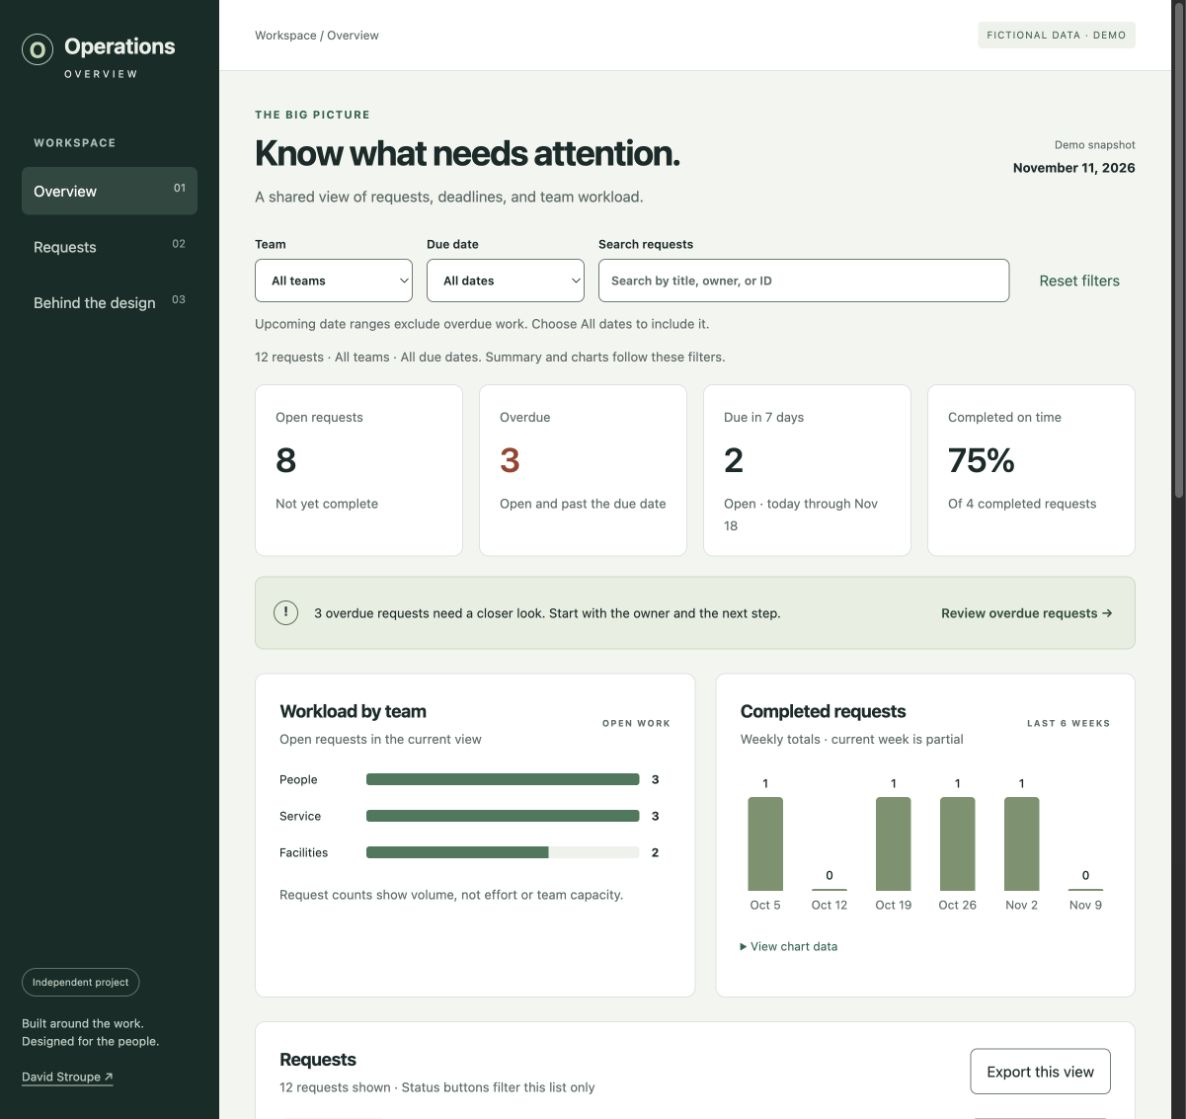
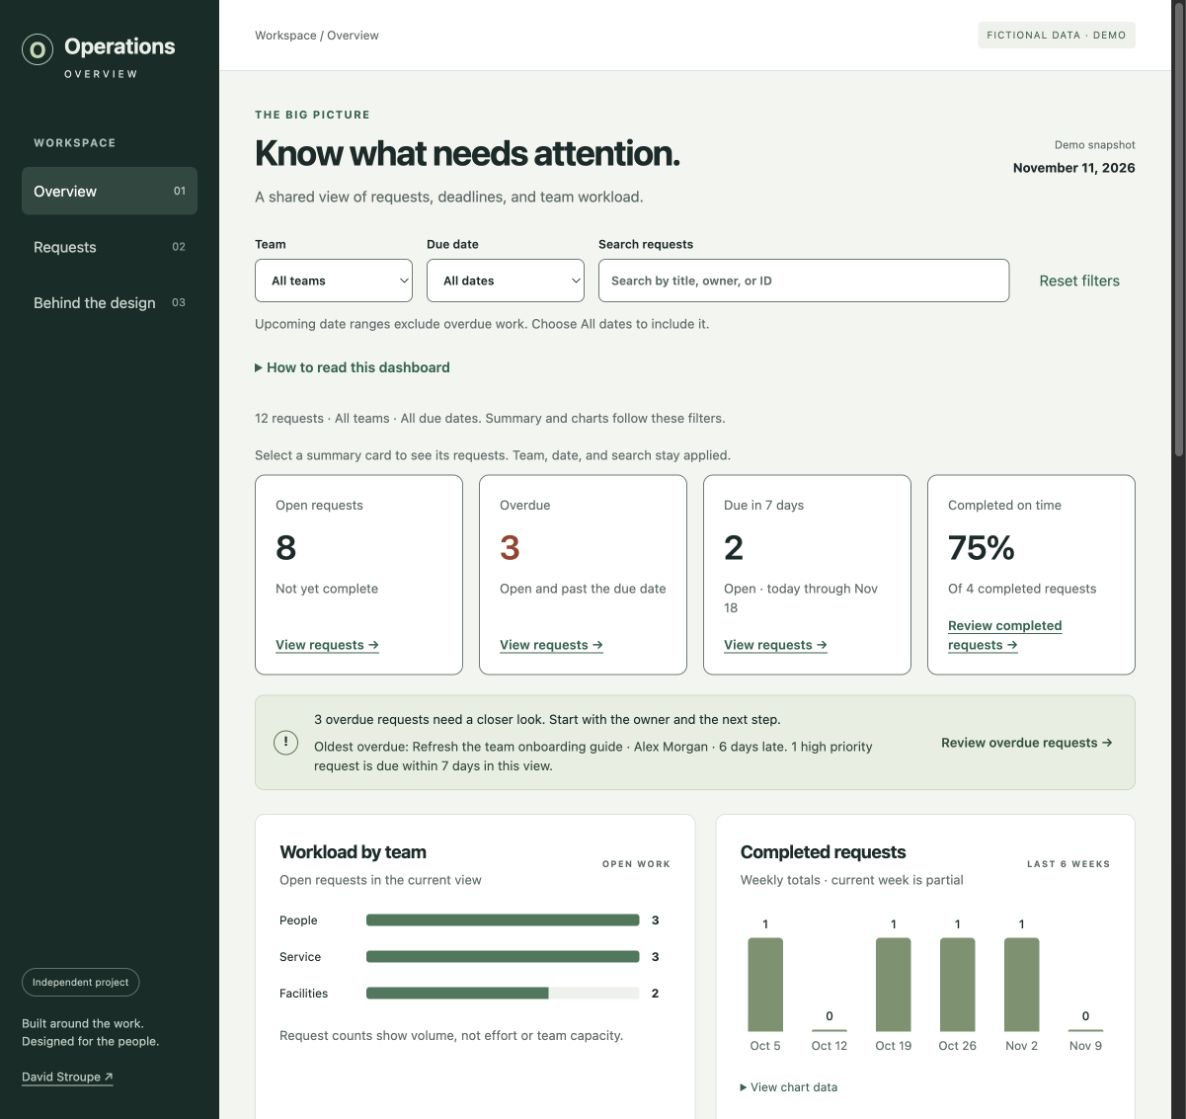
Connect summary cards to actionable request views

diff --git a/index.html b/index.html
@@ -3,10 +3,10 @@
 <aside class="sidebar"><a class="brand" href="index.html"><span class="mark">O</span> Operations<br><span class="brand-sub">OVERVIEW</span></a><p class="navlabel">WORKSPACE</p><nav aria-label="Dashboard"><a class="selected" href="#main" aria-current="page">Overview <span>01</span></a><a href="#requests">Requests <span>02</span></a><a href="case-study.html">Behind the design <span>03</span></a></nav><div class="sidefoot"><span class="pill">Independent project</span><p>Built around the work.<br>Designed for the people.</p><a href="https://www.linkedin.com/in/david-stroupe/">David Stroupe ↗</a></div></aside>
 <div class="workspace"><header><span>Workspace / Overview</span><span class="demo">FICTIONAL DATA · DEMO</span></header><main id="main" tabindex="-1"><div class="heading"><div><p class="eyebrow">THE BIG PICTURE</p><h1>Know what needs attention.</h1><p class="muted">A shared view of requests, deadlines, and team workload.</p></div><div class="snapshot">Demo snapshot<br><strong>November 11, 2026</strong></div></div>
 <form id="filters" class="filters" aria-label="Filter dashboard"><label>Team<select id="team" aria-describedby="scope"><option value="all">All teams</option><option>People</option><option>Service</option><option>Facilities</option></select></label><label>Due date<select id="window" aria-describedby="date-help"><option value="all">All dates</option><option value="30">Next 30 days</option><option value="60">Next 60 days</option><option value="90">Next 90 days</option></select></label><label class="search">Search requests<input id="search" aria-describedby="search-help" type="search" placeholder="Search by title, owner, or ID"></label><button type="reset" class="quiet">Reset filters</button></form>
-<p class="filter-help" id="date-help">Upcoming date ranges exclude overdue work. Choose All dates to include it.</p><p id="search-help" class="sr-only">Search by request title, owner, or ID. Results update as you type.</p><details class="dashboard-help"><summary>How to read this dashboard</summary><div><p>Team, due date, and search change the summary, charts, and request list. Status buttons change only the list.</p><p>Overdue means an unfinished request was due before November 11, 2026. Upcoming date ranges leave overdue work out. Completed on time compares completion dates with due dates, using only completed requests in this view.</p><p>Use Tab to move through controls, Enter or Space to activate buttons, and arrow keys in selection lists. Open a request for its context and next step. Escape closes request details and returns you to the list.</p></div></details><p id="scope" class="scope" aria-live="polite" aria-atomic="true"></p><section id="metrics" class="metrics" aria-label="Request summary"></section>
-<div class="insight"><span class="insight-icon" aria-hidden="true">!</span><p id="insight-text"></p><button id="show-overdue">Review overdue requests →</button></div>
+<p class="filter-help" id="date-help">Upcoming date ranges exclude overdue work. Choose All dates to include it.</p><p id="search-help" class="sr-only">Search by request title, owner, or ID. Results update as you type.</p><details class="dashboard-help"><summary>How to read this dashboard</summary><div><p>Team, due date, and search change the summary, charts, and request list. Status buttons change only the list.</p><p>Overdue means an unfinished request was due before November 11, 2026. Upcoming date ranges leave overdue work out. Completed on time compares completion dates with due dates, using only completed requests in this view.</p><p>Use Tab to move through controls, Enter or Space to activate buttons, and arrow keys in selection lists. Open a request for its context and next step. Escape closes request details and returns you to the list.</p></div></details><p id="scope" class="scope" aria-live="polite" aria-atomic="true"></p><p class="filter-help">Select a summary card to see its requests. Team, date, and search stay applied.</p><section id="metrics" class="metrics" aria-label="Request summary"></section>
+<div class="insight"><span class="insight-icon" aria-hidden="true">!</span><div class="briefing"><p id="insight-text"></p><p id="briefing-detail"></p></div><button id="show-overdue">Review overdue requests →</button></div>
 <div class="charts"><section class="panel"><div class="panel-heading"><div><h2>Workload by team</h2><p class="muted small">Open requests in the current view</p></div><span class="label">OPEN WORK</span></div><div id="workload"></div><p class="chartnote">Request counts show volume, not effort or team capacity.</p></section><section class="panel"><div class="panel-heading"><div><h2>Completed requests</h2><p class="muted small">Weekly totals · current week is partial</p></div><span class="label">LAST 6 WEEKS</span></div><div id="trend" class="trend"></div><details><summary>View chart data</summary><table id="trend-table"><caption>Completed requests by week</caption><thead><tr><th scope="col">Week starting</th><th scope="col">Completed</th></tr></thead><tbody></tbody></table></details></section></div>
-<section class="panel request-panel" id="requests"><div class="panel-heading"><div><h2>Requests</h2><p id="result-count" class="muted small" aria-live="polite" aria-atomic="true"></p></div><span class="help-wrap"><button id="export" class="outline" aria-describedby="export-help">Export this view</button><span class="tooltip" id="export-help" role="tooltip" hidden>Download the requests currently shown as a CSV, including work status and schedule. Nothing is sent to anyone.</span></span></div><div class="request-controls"><div class="tabs" role="group" aria-label="Request status"><button type="button" data-status="all" aria-pressed="true">All requests</button><button type="button" data-status="overdue" aria-pressed="false">Overdue</button><button type="button" data-status="open" aria-pressed="false">Open</button><button type="button" data-status="complete" aria-pressed="false">Complete</button></div><label>Sort by<select id="sort" aria-describedby="sort-help"><option value="attention">Needs attention</option><option value="due">Due date</option><option value="priority">Priority</option></select></label></div><p class="table-note" id="sort-help">Needs attention puts overdue work first, then other open requests, then completed work.</p><p class="table-note" id="request-help">Open a request to see the context and next step.</p><div class="table-wrap"><table class="requests-table" role="table"><caption class="sr-only">Requests matching the selected filters</caption><thead role="rowgroup"><tr role="row"><th role="columnheader" scope="col">Request</th><th scope="col">Team / owner</th><th scope="col">Status</th><th scope="col">Due</th><th scope="col">Priority</th></tr></thead><tbody id="rows" role="rowgroup"></tbody></table></div><div id="empty" class="empty" hidden><h3>No requests in this view.</h3><p>Try another team, a wider date range, or clear your search.</p><button id="empty-reset">Clear filters</button></div></section>
+<section class="panel request-panel" id="requests"><div class="panel-heading"><div><h2 id="requests-heading" tabindex="-1">Requests</h2><p id="result-count" class="muted small" aria-live="polite" aria-atomic="true"></p></div><span class="help-wrap"><button id="export" class="outline" aria-describedby="export-help">Export this view</button><span class="tooltip" id="export-help" role="tooltip" hidden>Download the requests currently shown as a CSV, including work status and schedule. Nothing is sent to anyone.</span></span></div><div class="request-controls"><div class="tabs" role="group" aria-label="Request status"><button type="button" data-status="all" aria-pressed="true">All requests</button><button type="button" data-status="overdue" aria-pressed="false">Overdue</button><button type="button" data-status="open" aria-pressed="false">Open</button><button type="button" data-status="due" aria-pressed="false">Due in 7 days</button><button type="button" data-status="complete" aria-pressed="false">Complete</button></div><label>Sort by<select id="sort" aria-describedby="sort-help"><option value="attention">Needs attention</option><option value="due">Due date</option><option value="priority">Priority</option></select></label></div><div class="list-filter"><p id="active-filter"></p><button id="clear-list" class="quiet" type="button" hidden>Show all requests in this view</button></div><p class="table-note" id="sort-help">Needs attention puts overdue work first, then other open requests, then completed work.</p><p class="table-note" id="request-help">Open a request to see the context and next step.</p><div class="table-wrap"><table class="requests-table" role="table"><caption class="sr-only">Requests matching the selected filters</caption><thead role="rowgroup"><tr role="row"><th role="columnheader" scope="col">Request</th><th scope="col">Team / owner</th><th scope="col">Status</th><th scope="col">Due</th><th scope="col">Priority</th><th scope="col">Next step</th></tr></thead><tbody id="rows" role="rowgroup"></tbody></table></div><div id="empty" class="empty" hidden><h3>No requests in this view.</h3><p>Try another team, a wider date range, or clear your search.</p><button id="empty-reset">Clear filters</button></div></section>
 <noscript><p class="notice">The dashboard needs JavaScript for filters and data. You can still <a href="case-study.html">read the case study</a>.</p></noscript><p class="footer-note">A portfolio concept by David Stroupe. All names, requests, and results shown here are fictional. <a href="case-study.html">Read the design story ↗</a> <a href="accessibility.html">Accessibility and checks</a></p><p id="notice" class="sr-only" role="status"></p></main></div>
 <dialog id="detail" aria-labelledby="detail-title"><div class="dialog-top"><span class="eyebrow">REQUEST DETAILS</span><button id="close-detail" aria-label="Close request details">Close ✕</button></div><div id="detail-body"></div></dialog>
 </body></html>

diff --git a/app.js b/app.js
@@ -13,26 +13,34 @@ function render() {
   const dateScope = $('window').value === 'all' ? 'All due dates' : 'Due in the next ' + $('window').value + ' days, including today';
   $('scope').textContent = `${base.length} requests · ${$('team').value === 'all' ? 'All teams' : $('team').value} · ${dateScope}. Summary and charts follow these filters.`;
   const cards = [
-    ['Open requests', summary.open, 'Not yet complete', ''],
-    ['Overdue', summary.overdue, 'Open and past the due date', 'alert'],
-    ['Due in 7 days', summary.due, 'Open · today through Nov 18', ''],
-    ['Completed on time', summary.onTime === null ? '—' : summary.onTime + '%', summary.closed ? `Of ${summary.closed} completed requests` : 'No completed requests', '']
+    ['Open requests', summary.open, 'Not yet complete', '', 'open'],
+    ['Overdue', summary.overdue, 'Open and past the due date', 'alert', 'overdue'],
+    ['Due in 7 days', summary.due, 'Open · today through Nov 18', '', 'due'],
+    ['Completed on time', summary.onTime === null ? '—' : summary.onTime + '%', summary.closed ? `Of ${summary.closed} completed requests` : 'No completed requests', '', 'complete']
   ];
-  $('metrics').innerHTML = cards.map(([label,value,hint,cls]) => `<div class="metric ${cls}"><span class="metric-label">${label}</span><strong>${value}</strong><small>${hint}</small></div>`).join('');
+  $('metrics').innerHTML = cards.map(([label,value,hint,cls,filter]) => `<button type="button" class="metric ${cls}" data-kpi="${filter}" aria-pressed="${statusFilter === filter}" aria-controls="rows" aria-label="${label}: ${value}. ${hint}. Show ${filter === 'complete' ? 'all completed requests' : filter === 'due' ? 'requests due within seven days' : filter === 'open' ? 'open requests' : 'overdue requests'}"><span class="metric-label">${label}</span><strong>${value}</strong><small>${hint}</small><span class="metric-action">${statusFilter === filter ? 'Selected' : filter === 'complete' ? 'Review completed requests' : 'View requests'} →</span></button>`).join('');
   $('insight-text').textContent = !base.length ? 'No requests match these filters. Clear your search or choose a wider view.' : summary.overdue
     ? `${summary.overdue} overdue ${summary.overdue === 1 ? 'request needs' : 'requests need'} a closer look. Start with the owner and the next step.`
     : 'No overdue requests in this view. Check All dates if you have selected an upcoming date range.';
+  const late = sortRequests(base.filter(overdue));
+  const highSoon = base.filter(t => !t.completed && t.priority === 'High' && daysUntil(t) >= 0 && daysUntil(t) <= 7);
+  $('briefing-detail').textContent = late.length ? `Oldest overdue: ${late[0].title} · ${late[0].owner} · ${-daysUntil(late[0])} ${daysUntil(late[0]) === -1 ? 'day' : 'days'} late. ${highSoon.length} high priority ${highSoon.length === 1 ? 'request is' : 'requests are'} due within 7 days in this view.` : base.length ? `${highSoon.length} high priority ${highSoon.length === 1 ? 'request is' : 'requests are'} due within 7 days in this view.` : '';
   $('show-overdue').disabled = !summary.overdue;
   renderCharts(base);
   currentRows = sortRequests(filterRequests(base, {status:statusFilter}), $('sort').value);
+  const filterNames = {all:'All requests',open:'Open requests',overdue:'Overdue requests',due:'Due in 7 days',complete:'Completed requests'};
+  $('requests-heading').textContent = filterNames[statusFilter];
+  $('active-filter').textContent = statusFilter === 'all' ? 'No additional list filter. Team, date, and search still apply.' : `Showing: ${filterNames[statusFilter]}. Summary totals and charts still describe the broader view.`;
+  $('clear-list').hidden = statusFilter === 'all';
   $('result-count').textContent = `${currentRows.length} ${currentRows.length === 1 ? 'request' : 'requests'} shown · Status buttons filter this list only`;
   $('rows').innerHTML = currentRows.map(task => `
     <tr role="row">
       <td role="cell"><span class="id">${escapeHtml(task.id)}</span><button class="title-button" aria-haspopup="dialog" aria-describedby="request-help" data-id="${escapeHtml(task.id)}">${escapeHtml(task.title)}</button></td>
       <td role="cell" data-label="Team / owner">${escapeHtml(task.team)}<br><span class="muted">${escapeHtml(task.owner)}</span></td>
       <td role="cell" data-label="Status"><span class="badge ${overdue(task) ? 'overdue' : task.completed ? 'complete' : ''}">${escapeHtml(overdue(task) ? 'Overdue' : task.status)}</span>${overdue(task) ? `<span class="work-status">${escapeHtml(task.status)}</span>` : ''}</td>
-      <td role="cell" data-label="Due" class="${overdue(task) ? 'late' : ''}">${fmt(task.due)}</td>
+      <td role="cell" data-label="Due" class="${overdue(task) ? 'late' : ''}">${fmt(task.due)}${overdue(task) ? `<span class="work-status late">${-daysUntil(task)} ${daysUntil(task) === -1 ? 'day' : 'days'} late</span>` : task.completed ? `<span class="work-status">${scheduleState(task)}</span>` : ''}</td>
       <td role="cell" data-label="Priority"><span class="priority">${escapeHtml(task.priority)}</span></td>
+      <td role="cell" data-label="Next step" class="next-step">${escapeHtml(task.next)}</td>
     </tr>`).join('');
   $('empty').hidden = currentRows.length > 0;
   $('export').disabled = !currentRows.length;
@@ -81,9 +89,22 @@ $('filters').addEventListener('reset', () => {
   setTimeout(render, 0);
 });
 $('sort').addEventListener('change', render);
-document.querySelectorAll('[data-status]').forEach(button => button.addEventListener('click', () => {
-  statusFilter = button.dataset.status;
+function selectList(filter, moveToList = false) {
+  clearTimeout(searchTimer);
+  statusFilter = filter;
   render();
+  if (moveToList) {
+    $('requests-heading').focus({preventScroll:true});
+    $('requests').scrollIntoView({behavior:'instant',block:'start'});
+  }
+}
+$('metrics').addEventListener('click', event => {
+  const card = event.target.closest('[data-kpi]');
+  if (card) selectList(card.dataset.kpi, true);
+});
+$('clear-list').addEventListener('click', () => selectList('all', true));
+document.querySelectorAll('[data-status]').forEach(button => button.addEventListener('click', () => {
+  selectList(button.dataset.status);
 }));
 $('empty-reset').addEventListener('click', () => { $('filters').reset(); $('search').focus(); });
 $('show-overdue').addEventListener('click', () => {

diff --git a/case-study.html b/case-study.html
@@ -16,7 +16,7 @@
 <p>That choice keeps the demo honest. A production application would need permissions, a dependable data connection, validation, audit history, and a plan for stale or failed updates. Those are outside this prototype.</p>
 <h2>How the experience fits together</h2>
 <ol><li><strong>Scan.</strong> The summary shows open work, overdue items, upcoming deadlines, and completed work.</li><li><strong>Narrow.</strong> Team, date, and search filters update the summary, charts, and list together.</li><li><strong>Investigate.</strong> Status buttons narrow the list. Opening a request reveals the context and next step.</li><li><strong>Take it into the review.</strong> The CSV contains the current list, its work status, schedule indicator, and demo snapshot date.</li></ol>
-<h2>The decisions that matter</h2>
+<h2>The decisions that matter</h2><div class="decision"><h3>Make the numbers a route to the work</h3><p>The summary cards filter the request list while keeping team, date, and search in place. A selected state and list heading show exactly what is being reviewed. The summary and charts keep their broader context. The completed percentage opens all completed requests so a reviewer can inspect the denominator, including late completions.</p><p>A short briefing names the oldest overdue request and its owner. The list shows days late and the next step directly, reducing the need to open each record. These are design improvements to test with users, not measured time savings.</p></div>
 <div class="decision"><h3>Lead with attention, not old completed work</h3><p>The first version sorted everything by due date. That put older completed requests ahead of work that still needed attention. The default now shows overdue work first, then other open work, then completed items. Due date and priority remain available as separate sorting options.</p><p><strong>The tradeoff:</strong> the default is no longer one uninterrupted date sequence. The sort control makes that choice visible.</p></div>
 <div class="decision"><h3>Keep work status separate from the deadline</h3><p>A request can be both overdue and waiting for information. The first version showed only the overdue label in the list. The review added the underlying work status, and the export now carries both fields. That gives someone a reason to follow up, not just a red label.</p></div>
 <div class="decision"><h3>Make filter boundaries clear</h3><p>The summary follows the top filters. The status buttons only affect the list. Upcoming date ranges exclude overdue items, and the interface explains that beside the filters. The demo date now stays visible on a phone as well.</p><p><strong>The tradeoff:</strong> two filter scopes take some explanation. A usability session will tell me whether that is clear enough or should be simplified.</p></div>

diff --git a/style.css b/style.css
@@ -46,3 +46,19 @@ main:focus{outline:none}
 nav a{min-height:44px;align-items:center}
 @media(max-width:700px){.dialog-top{top:-22px}.requests-table td[data-label]:before{font-size:12px}.story{overflow-wrap:anywhere}.tabs button{min-width:44px}}
 @media(forced-colors:active){button:focus-visible,a:focus-visible,input:focus-visible,select:focus-visible,summary:focus-visible{outline:3px solid Highlight;box-shadow:none}.tooltip{background:Canvas;color:CanvasText;border:1px solid CanvasText}.title-button{border:1px solid ButtonText}.tabs button[aria-pressed=true]{border:2px solid Highlight}}
+
+/* Summary cards lead directly to the work behind each number. */
+button.metric{text-align:left;color:var(--ink);cursor:pointer;border:1px solid #6a7d73;white-space:normal;display:block;width:100%;font-weight:400}
+button.metric:hover{background:#e9f0e6;filter:none;border-color:#24634e}
+button.metric[aria-pressed=true]{border:3px solid #24634e;padding:18px;background:#e9f0e6}
+.metric-action{display:block;margin-top:14px;font-size:13px;font-weight:600;color:#24634e;text-decoration:underline;text-underline-offset:3px}
+.briefing{flex:1;min-width:0}.briefing p+p{margin-top:8px;font-size:13px;color:#304b3c}
+.list-filter{display:flex;flex-wrap:wrap;align-items:center;gap:8px;margin-top:12px;font-size:13px;color:var(--muted)}
+.list-filter p{flex:1;min-width:180px}
+.next-step{min-width:140px;max-width:260px;line-height:1.6}
+#requests-heading:focus{outline:3px solid #075a9c;outline-offset:5px}
+@media(max-width:1100px){button.metric[aria-pressed=true]{padding:14px}.requests-table td,.requests-table th{padding:12px 8px}}
+@media(max-width:700px){.requests-table td.next-step{grid-column:1/-1;max-width:none}.briefing{flex-basis:80%}.metric-action{font-size:12px}.requests-table td{padding:0}}
+@media(forced-colors:active){button.metric[aria-pressed=true]{border:3px solid Highlight}.metric-action{color:LinkText}}
+
+button.metric{display:flex;flex-direction:column;align-items:flex-start}.metric-action{margin-top:auto;padding-top:14px}.metric small{margin-bottom:4px}.metrics{margin-top:10px}

diff --git a/data.js b/data.js
@@ -26,7 +26,7 @@ function filterRequests(rows, {team='all', window='all', query='', status='all'}
     (team === 'all' || t.team === team) &&
     (window === 'all' || (daysUntil(t) >= 0 && daysUntil(t) <= Number(window))) &&
     (!term || [t.title, t.owner, t.id].some(value => value.toLowerCase().includes(term))) &&
-    (status === 'all' || (status === 'overdue' ? overdue(t) : status === 'complete' ? !!t.completed : !t.completed))
+    (status === 'all' || (status === 'overdue' ? overdue(t) : status === 'complete' ? !!t.completed : status === 'due' ? !t.completed && daysUntil(t) >= 0 && daysUntil(t) <= 7 : status === 'open' ? !t.completed : false))
   );
 }
 function sortRequests(rows, sort='attention') {

diff --git a/DESIGN.md b/DESIGN.md
@@ -37,3 +37,7 @@ The review also kept the snapshot visible on phones, strengthened control outlin
 Figma now includes a request detail state, an empty state, and a review handoff frame. Metric cards expose text properties. The original overview frames remain layout studies, while the browser is the reference for current interaction behavior. The file is not a complete design system or a fully wired prototype.
 
 See [the review](AUDIT.md), [the checks](CHECKS.md), and [the session plan](TEST-PLAN.md).
+
+## A quicker leadership review
+
+The KPI cards now open their matching request lists. Summary totals stay tied to team, date, and search. The active list filter is named and can be cleared without losing those choices. The briefing calls out the oldest overdue request and upcoming high priority work. Each row shows its next step, overdue age, or completion timing. These changes are intended to reduce extra clicks; no user outcome or time savings are claimed.

diff --git a/CHECKS.md b/CHECKS.md
@@ -34,3 +34,7 @@ Added keyboard accessible export help with Escape dismissal, an expandable dashb
 Verified export help appears on keyboard focus and dismisses with Escape. The guide opens with Enter. Modal Tab containment and Escape focus return passed again. Data tests and JavaScript syntax checks passed. Hover behavior, screen reader output, system contrast, and full conformance still need systematic manual testing.
 
 The standing baseline is in ACCESSIBILITY-STANDARD.md.
+
+## KPI navigation checks
+
+Open, overdue, due within seven days, and completed cards showed 8, 3, 2, and 4 rows respectively. Summary values stayed unchanged. Enter and Space activated the cards, moving focus to the request heading. People plus Due in 7 days showed one request. Clearing the list filter and resetting all filters restored their intended scopes. Added automated checks for seven day boundaries and completed records.

diff --git a/README.md b/README.md
@@ -52,3 +52,7 @@ The default view now puts unresolved work first. Overdue requests keep their wor
 * [Review accessibility and remaining checks](https://dnstroupe.github.io/operations-overview/accessibility.html)
 
 The Figma file also includes detail and empty states, review notes, and editable metric properties. It is a design study with a working browser counterpart, not a complete enterprise design system.
+
+## A quicker leadership review
+
+The KPI cards now open their matching request lists. Summary totals stay tied to team, date, and search. The active list filter is named and can be cleared without losing those choices. The briefing calls out the oldest overdue request and upcoming high priority work. Each row shows its next step, overdue age, or completion timing. These changes are intended to reduce extra clicks; no user outcome or time savings are claimed.
